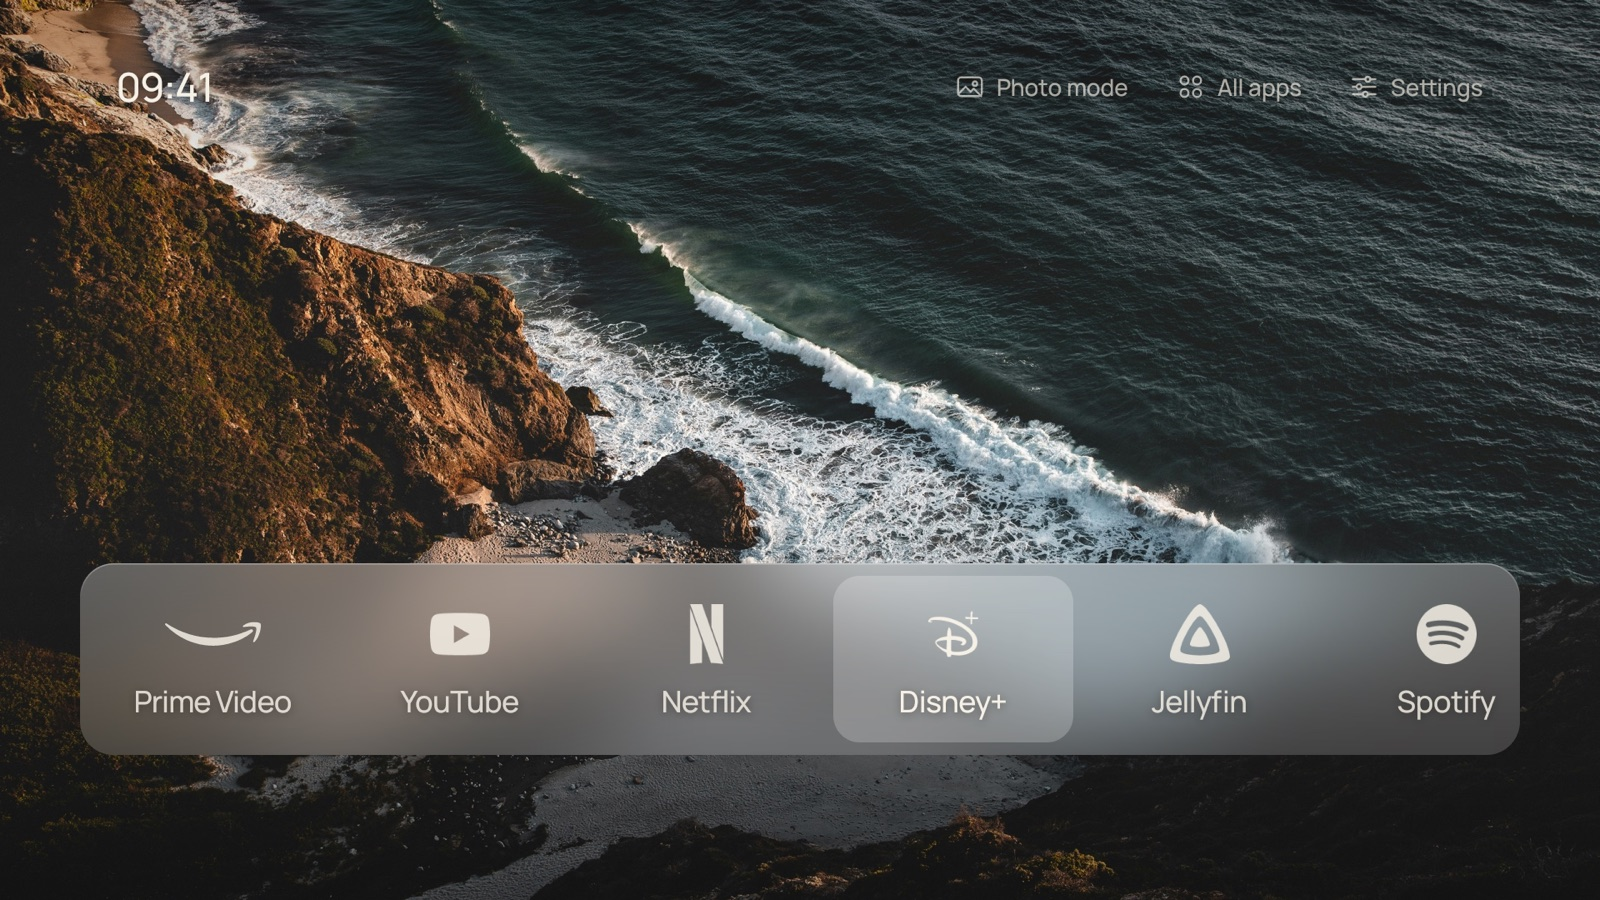
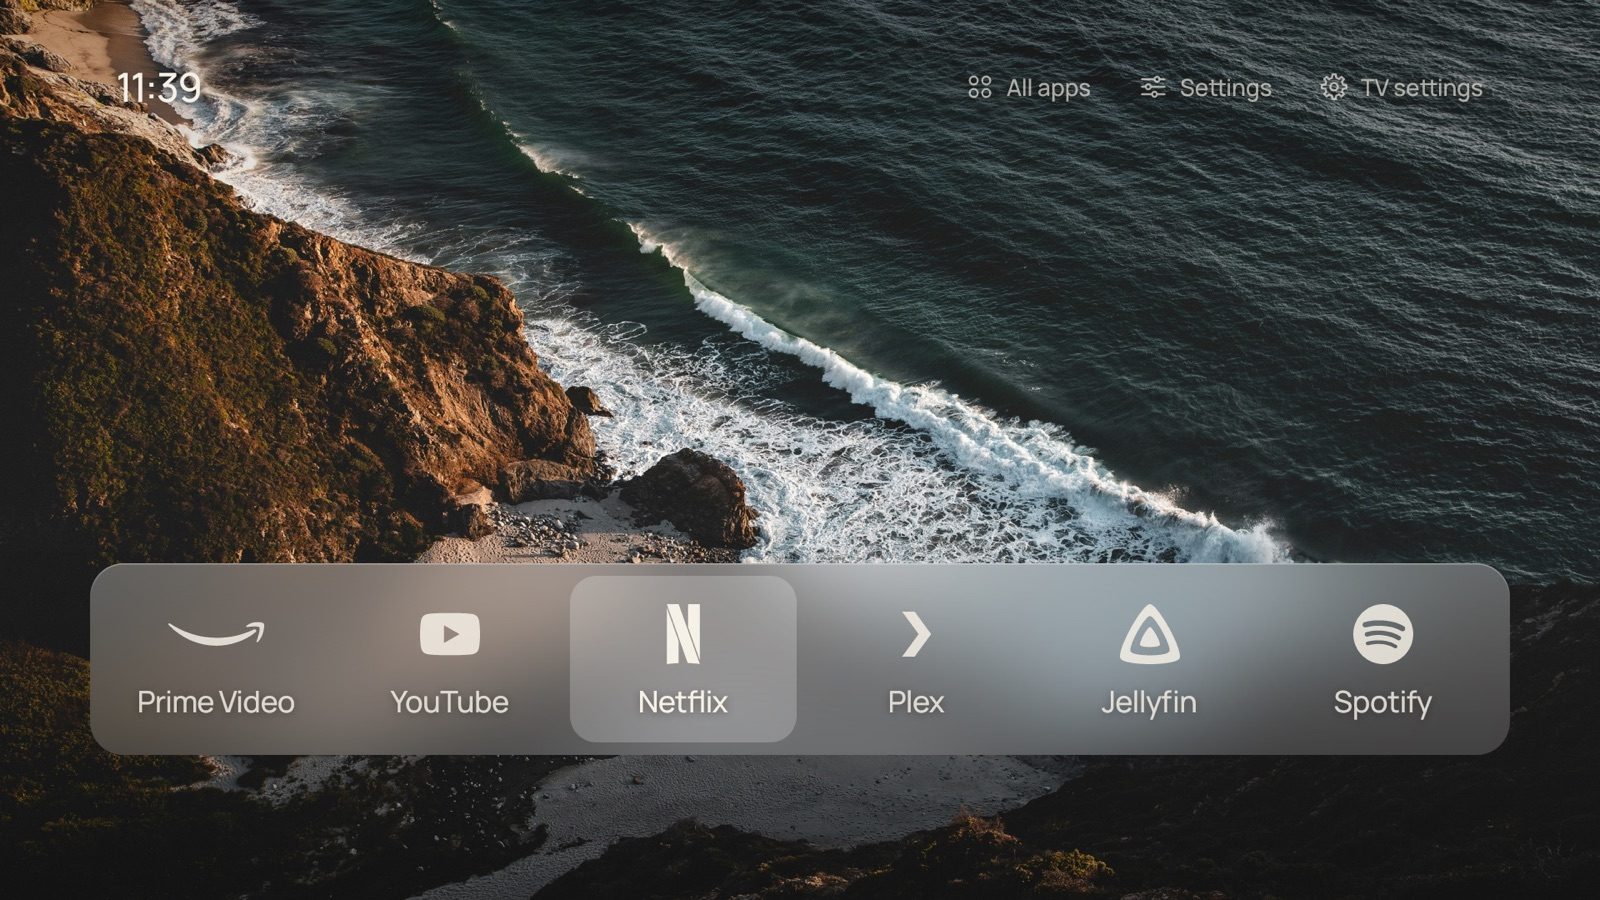
Fit the dock to its tiles, and update the screenshots
Tiles are a little narrower, so six fit with no scrolling. The dock
is as wide as its tiles and centred. With seven to nine apps it is
full width and scrolls, and the tiles cut by an edge fade.

The README screenshots show the new controls, the one-colour app
icons and the new dock.

diff --git a/src/io/github/fballiano/quiethome/HomeScreen.java b/src/io/github/fballiano/quiethome/HomeScreen.java
@@ -29,8 +29,10 @@ final class HomeScreen extends Screen {
     private static final float LEFT = 140, RIGHT = 1780;
     private static final float LIST_TOP = 236, ROW = 128;
     private static final int ROWS = 6;
+    /** The largest dock. A dock with fewer tiles is narrower and stays centred. */
     private static final RectF DOCK = new RectF(96, 676, 1824, 906);
-    private static final float TILE_LEFT = 112, TILE_TOP = 691, TILE_W = 288, TILE_H = 200, PITCH = 296;
+    /** Six tiles fit the largest dock; more tiles scroll. PAD is the space between the dock edge and its tiles. */
+    private static final float PAD = 16, TILE_TOP = 691, TILE_W = 272, TILE_H = 200, PITCH = 280;
 
     final List<Catalog.Entry> items = new ArrayList<>();
     private final List<Ui.Anim> emphasis = new ArrayList<>();
@@ -39,6 +41,7 @@ final class HomeScreen extends Screen {
     private final Ui.Anim press = new Ui.Anim(140);
     private int pressed = -1;
     private final Ui.Anim scroll = new Ui.Anim(120);
+    private final RectF dockArea = new RectF();
     private final Ui.Anim plate = new Ui.Anim(90);
     private final Ui.Anim plateWidth = new Ui.Anim(90);
     private final Ui.Anim plateAlpha = new Ui.Anim(90);
@@ -224,12 +227,12 @@ final class HomeScreen extends Screen {
         plateAlpha.to(n == 0 ? 0 : zone == APPS ? 1 : 0.5f);
         if (stage.prefs.is(Prefs.LAYOUT, "dock")) {
             float s = scroll.target;
-            float visible = DOCK.width() - 2 * (TILE_LEFT - DOCK.left);
+            float visible = dockArea(n).width() - 2 * PAD;
             float peek = PITCH * 0.4f;
-            float min = (focus + 1) * PITCH - 8 + (focus < n - 1 ? peek : 0) - visible;
+            float min = (focus + 1) * PITCH - (PITCH - TILE_W) + (focus < n - 1 ? peek : 0) - visible;
             float max = focus * PITCH - (focus > 0 ? peek : 0);
             s = Math.max(min, Math.min(max, s));
-            s = Math.max(0, Math.min(s, Math.max(0, n * PITCH - 8 - visible)));
+            s = Math.max(0, Math.min(s, Math.max(0, n * PITCH - (PITCH - TILE_W) - visible)));
             scroll.to(s);
             plate.to(focus * PITCH);
         } else {
@@ -397,11 +400,15 @@ final class HomeScreen extends Screen {
         float rest = photo || glass ? 0.84f : 0.62f;
         float selected = glass ? 1 : photo ? 0.92f : 0.78f;
 
-        ui.glass(c, DOCK, 40, blur, bg, prefs.get(Prefs.MATERIAL), 1, true);
+        RectF area = dockArea(items.size());
+        float tileLeft = area.left + PAD;
+        // When the tiles do not fit, the ones cut by an edge fade with the part that is hidden.
+        boolean scrolls = area.width() >= DOCK.width() && items.size() * PITCH - (PITCH - TILE_W) > area.width() - 2 * PAD;
+        ui.glass(c, area, 40, blur, bg, prefs.get(Prefs.MATERIAL), 1, true);
         c.save();
-        c.clipRect(DOCK.left + 8, DOCK.top, DOCK.right - 8, DOCK.bottom);
+        c.clipRect(area.left + 8, area.top, area.right - 8, area.bottom);
         if ((glass || moving) && !items.isEmpty()) {
-            float x = TILE_LEFT + v(plate, live) - sx;
+            float x = tileLeft + v(plate, live) - sx;
             r.set(x, TILE_TOP, x + TILE_W, TILE_TOP + TILE_H);
             int color = "light".equals(bg) ? 0x1A000000 : 0x38FFFFFF;
             ui.fill.setShader(null);
@@ -410,10 +417,11 @@ final class HomeScreen extends Screen {
             c.drawRoundRect(r, 32, 32, ui.fill);
         }
         for (int i = 0; i < items.size(); i++) {
-            float x = TILE_LEFT + i * PITCH - sx;
-            if (x > DOCK.right || x + TILE_W < DOCK.left) continue;
+            float x = tileLeft + i * PITCH - sx;
+            if (x > area.right || x + TILE_W < area.left) continue;
             float e = v(emphasis.get(i), live);
             float a = alpha(e, rest, selected);
+            if (scrolls) a *= Ui.clamp(Math.min(x + TILE_W - tileLeft, area.right - PAD - x) / TILE_W);
             float scale = (glass ? 1 : 1 + 0.05f * Math.max(0, e * 2 - 1)) * pressScale(i, live);
             float cx = x + TILE_W / 2, y = TILE_TOP;
             Catalog.Entry entry = items.get(i);
@@ -440,6 +448,13 @@ final class HomeScreen extends Screen {
             c.restore();
         }
         c.restore();
+    }
+
+    /** The dock for n tiles: as wide as its tiles, centred, and at most as wide as DOCK. */
+    private RectF dockArea(int n) {
+        float width = Math.min(DOCK.width(), Math.max(1, n) * PITCH - (PITCH - TILE_W) + 2 * PAD);
+        dockArea.set(Ui.W / 2 - width / 2, DOCK.top, Ui.W / 2 + width / 2, DOCK.bottom);
+        return dockArea;
     }
 
     private void controls(Canvas c, boolean live, Bitmap blur, String bg, int ink, boolean dock) {
@@ -491,7 +506,7 @@ final class HomeScreen extends Screen {
         float h = menu.size() * 68 + 24;
         float left, top;
         if (dock) {
-            float tile = TILE_LEFT + focus * PITCH - scroll.value + TILE_W / 2;
+            float tile = dockArea(items.size()).left + PAD + focus * PITCH - scroll.value + TILE_W / 2;
             left = tile - w / 2;
             top = TILE_TOP - 24 - h;
         } else {
